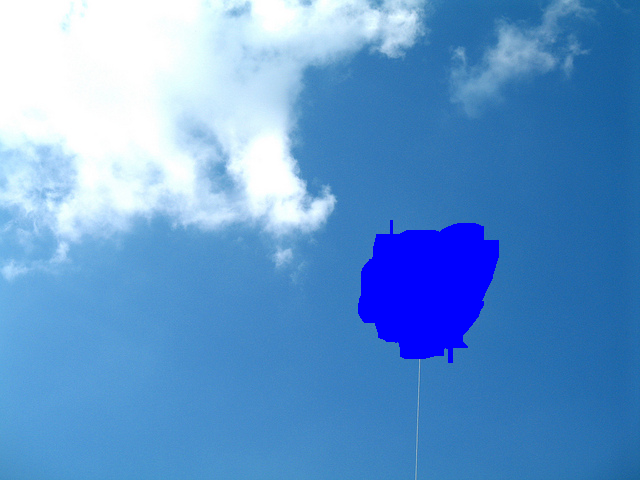
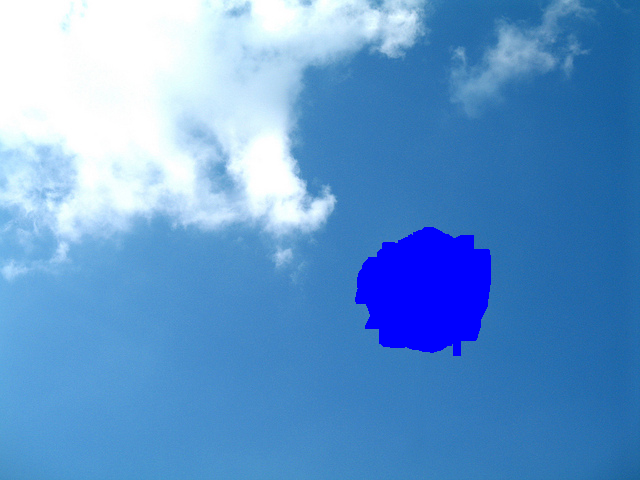
What we added for the final

diff --git a/pixel_replacer.py b/pixel_replacer.py
@@ -15,134 +15,16 @@ from PIL import Image
 from numpy import *
 from scipy import misc
 
-
-"""
-Will create an imaage from an array
-@param obj Object with array interface
-@param mode (RGBA) Way to save an image
-@return image Returns an image object
-"""
-# PIL.Image.fromarray(obj, mode=None)
-
 # --------------------------------------------------------------------------------------------------------
 
-
-
-# --------------------------------------------------------------------------------------------------------
-
-#def replacePixels(pixels):
-
-# --------------------------------------------------------------------------------------------------------
-
-def getDiagonalPixel(painted, row, column):
-
-    """ Will find the pixel that has not been changed and
-    is diagnonally across to the bottom right of the pixel entered"""
-
-    height, width, dimensions = painted.shape    # assigns the height, width, and dimensions
-                                                # of the array to variables
-    red, green, blue = painted[row][column]     # Gets the color values in the pixel
-    
-    while ((red < 10 and green < 10 and blue > 245) and (row < height and column < width)):
-
-        red, green, blue = painted[row][column]     # Gets the color values in the pixel
-        if (red != 0 and green != 0 and blue != 254):
-            return painted[row][column]
-
-        row += 1
-        column += 1
-
-
-    return None
-
-# --------------------------------------------------------------------------------------------------------
-
-def getLowerPixel(painted, row, column):
-    """ Will find the pixel that has not been changed and
-    is vertically below the pixel entered"""
-
-    height, width, dimensions = painted.shape    # assigns the height, width, and dimensions
-                                                # of the array to variables
-    red, green, blue = painted[row][column]     # Gets the color values in the pixel
-
-
-    while ((red < 10 and green < 10 and blue > 245) and row < height - 1):
-
-        red, green, blue = painted[row][column]     # Gets the color values in the pixel
-        if (red != 0 and green != 0 and blue != 254):
-            return painted[row][column]
-        
-        row += 1
-
-    return None
-
-# --------------------------------------------------------------------------------------------------------
-
-def getRightPixel(painted, row, column):
-    """ Will find the pixel that has not been changed and
-    is horizontally right of the pixel entered"""
-
-    height, width, dimensions = painted.shape   # assigns the height, width, and dimensions
-                                                # of the array to variables
-    red, green, blue = painted[row][column]     # Gets the color values in the pixel
-
-    while ((red < 10 and green < 10 and blue > 245) and column < width - 1):
-
-        red, green, blue = painted[row][column]     # Gets the color values in the pixel
-        if (red != 0 and green != 0 and blue != 254):
-            return painted[row][column]
-        
-        column += 1
-            
-        
-
-    return None
-
-# --------------------------------------------------------------------------------------------------------
-
-def getLeftPixel(painted, row, column):
-    '''Will find the pixel that has not been changed and
-       is located left of the current pixels'''
-
-    height, width, dimensions = painted.shape   # assigns the height, width, and dimensions
-                                                # of the array to variables
-    red, green, blue = painted[row][column]     # Gets the color values in the pixel
-
-    while ((red < 10 and green < 10 and blue > 245) and column > 0):
-
-        red, green, blue = painted[row][column]     # Gets the color values in the pixel
-        if (red != 0 and green != 0 and blue != 254):
-            return painted[row][column]
-
-        column -= 1
-
-    return None
-
-# --------------------------------------------------------------------------------------------------------
-
-def replaceLeftDiagonalPixel(painted, row, column):
-    '''Will create a new pixel for a painted pixel and replace it with and
-       estimated value produced from neighboring pixels'''
-
-    height, width, dimensions = painted.shape
-    red, green, blue = painted[row][column]
-    x = row;
-    y = column;
-
-    while ((red < 10 and green < 10 and blue > 245) and x > row - 5 and y > column - 5):
-        red, green, blue = painted[x][y]
-        
-        if (red != 0 and green != 0 and blue != 254):
-            return painted[x][y]
-
-        x -= 1
-        y -= 1
-        
-    return None
-        
-# --------------------------------------------------------------------------------------------------------
-
-#def createNewPixel(subArray):
+def isPatternUsable(kernel, row, column):
+    index = 0
+    for i in range(0,9):
+        red, green, blue = kernel[index]
+        index += 1
+        if (red < 50 and green < 50 and blue > 200):
+            return False
+    return True
 
 # --------------------------------------------------------------------------------------------------------
 
@@ -155,54 +37,88 @@ def getPattern(painted, row, column):
         (row > 0 and column < width - 2) and
         (row < height - 2 and column > 0) and
         (row < height - 2 and column < width - 2)):
-        sub_array = []
+        best_pattern = []
 
-        for i in range(-8, -5):
-            for j in range(-3, 2):
-                sub_array.append(painted[row + i][column + j])
+        top_left_pattern = []           # Lists for holding the pixel kernel
+        bottom_left_pattern = []        # for the pattern to use
+        top_right_pattern = []
+        bottom_right_pattern = []
 
-        # Add a part that grabs a sub array from each direction and then chooses the one
-        # that does not have any blue pixels to replace the area with
+        for i in range(-9, -6):                                         # Retrieve the pixel kernels for the 
+            for j in range(-9, -6):                                     # four different diagonals from the pixel
+                top_left_pattern.append(painted[row + i][column + j])
+                
+        for i in range(-9, -6):
+            for j in range(9, 12):
+                top_right_pattern.append(painted[row + i][column + j])
 
-    return sub_array
-    
-        
+        for i in range(9, 12):
+            for j in range(-9, -6):
+                bottom_left_pattern.append(painted[row + i][column + j])
+
+        for i in range(9, 12):
+            for j in range(9, 12):
+                bottom_right_pattern.append(painted[row + i][column + j])
+
+        top_left_total = 0              # Add up the total pixel values in 
+        bottom_left_total = 0           # each of the lists
+        top_right_total = 0
+        bottom_right_total = 0
+
+        isTopLeftUsable = isPatternUsable(top_left_pattern, row, column)          # Booleans used for checking if a 
+        isBottomLeftUsable = isPatternUsable(bottom_left_pattern, row, column)    # specific list is usable for the
+        isTopRightUsable = isPatternUsable(top_right_pattern, row, column)        # pattern
+        isBottomRightUsable = isPatternUsable(bottom_right_pattern, row, column)
+
+        for pixel in range(0, 9):
+            for value in range(0,3):
+                top_left_total += top_left_pattern[pixel][value]
+                bottom_left_total += top_left_pattern[pixel][value]
+                top_right_total += top_left_pattern[pixel][value]
+                bottom_right_total += top_left_pattern[pixel][value]
+
+        if (isTopLeftUsable):
+            return top_left_pattern
+        elif (isBottomLeftUsable):
+            return bottom_left_pattern
+        elif (isTopRightUsable):
+            return top_right_pattern
+        elif (isBottomRightUsable):
+            return bottom_right_pattern
+
+        # Next check which direction you just moved from to determine which function to return
+        # This will require being able to go in a circle around the painted area
+
+
 # --------------------------------------------------------------------------------------------------------
 
-#image = "blue_cow.jpg"
-painted_image = "blue_cow.jpg"
-count = 0
-total = 0
-success = 0
-fail = 0
+def main():
+    
+    painted_image = "drawing.png"
 
 
-#pixels = misc.imread(image)         # assigns the data from the image into a numpy array
-painted = misc.imread(painted_image) # assigns the data from the painted image into a nupy array
+    painted = misc.imread(painted_image) # assigns the data from the painted image into a nupy array
 
-height, width, dimensions = painted.shape   # assigns the height, width, and dimensions of the array to variables
+    height, width, dimensions = painted.shape   # assigns the height, width, and dimensions of the array to variables
 
-for row in range(0, height):                # iterates through the rows of the arrray
-    for column in range(0, width):          # iterates through the columns of the array
-        red, green, blue = painted[row][column]
-        if (red < 50 and green < 50 and blue > 200):
-            pattern = getPattern(painted, row, column)
+    for row in range(0, height):                # iterates through the rows of the arrray
+        for column in range(0, width):          # iterates through the columns of the array
+            red, green, blue = painted[row][column]
+            if (red < 50 and green < 50 and blue > 200):
+                pattern = getPattern(painted, row, column) # gets a pixel kernel that is 3x3 pixels
+                
+                index = 0
+                for i in range(-2, 1):      # changes the pixels in the original pixel array
+                    for j in range(-2, 1):  # with the pixel kernel in pattern
+                        painted[row + i][column + j] = pattern[index]
+                        index += 1
+
+    new_image = Image.fromarray(painted)    # Creates an image object from the pixels in the array
+    new_image.show()    # displays the new_image to the screen
             
-            index = 0
-            for i in range(-1, 2):
-                for j in range(-1, 2):
-                    painted[row + i][column + j] = pattern[index]
-                    index += 1
-            
-            
+# --------------------------------------------------------------------------------------------------------
 
-            
+main() # Calls all of the functions into a main function
 
-            
 
-print "Made it to the end"
-            
-
-new_image = Image.fromarray(painted)
-new_image.show()
 

diff --git a/pixel_painter.py b/pixel_painter.py
@@ -40,7 +40,9 @@ def Blue():
 def ExitChoice():#function allows user to choose a picture
     Painting(Big.count, Medium.count, Small.count, Red.count, Green.count, Blue.count)
     print Big.count, Medium.count, Small.count, Red.count, Green.count, Blue.count
-    exit()
+    print "Made it to quit"
+    app.quit()
+    app.destroy()
 
 #--------------------------------------
 def Painting(Big,Medium,Small,Red,Green,Blue):
@@ -98,10 +100,13 @@ def Painting(Big,Medium,Small,Red,Green,Blue):
         pygame.display.flip()
         #image.save(screen, "drawing.png")
     image.save(screen, "drawing.png")
+    
+
+    
         
 def Gui():#-----------Function creates GUI with choices--------------------------
     
-    app = Tk()
+    #app = Tk()
     app.title("Choose brush size and color")# Title of the GUI
     app.geometry("400x200")# size of the GUI
 
@@ -115,12 +120,16 @@ def Gui():#-----------Function creates GUI with choices-------------------------
     radio1 = Radiobutton(app, text = "Blue", value = "Blue", variable = relStatus, command = Blue).pack()
     radio1 = Radiobutton(app, text = "Choose Picture", value = "Choose Picture", variable = relStatus, command = ExitChoice).pack()
     app.mainloop()
-    exit()
+
+    
     #---------------------------------------------------------------------------------
 
 def main():
+    app = Tk()
     Gui()
 
+    
+app = Tk()
 main()
 
 

diff --git a/main.py b/main.py
@@ -1,6 +1,7 @@
 # main.py
+# Author: Salvador Ramirez
+# Author: Eliasar Gandara
 
-import pixel_painter as painter
-import pixel_replacer as replacer
 
-painter.main()
+import pixel_painter  # runs the painter file
+import pixel_replacer # runs the pixels replacement file
